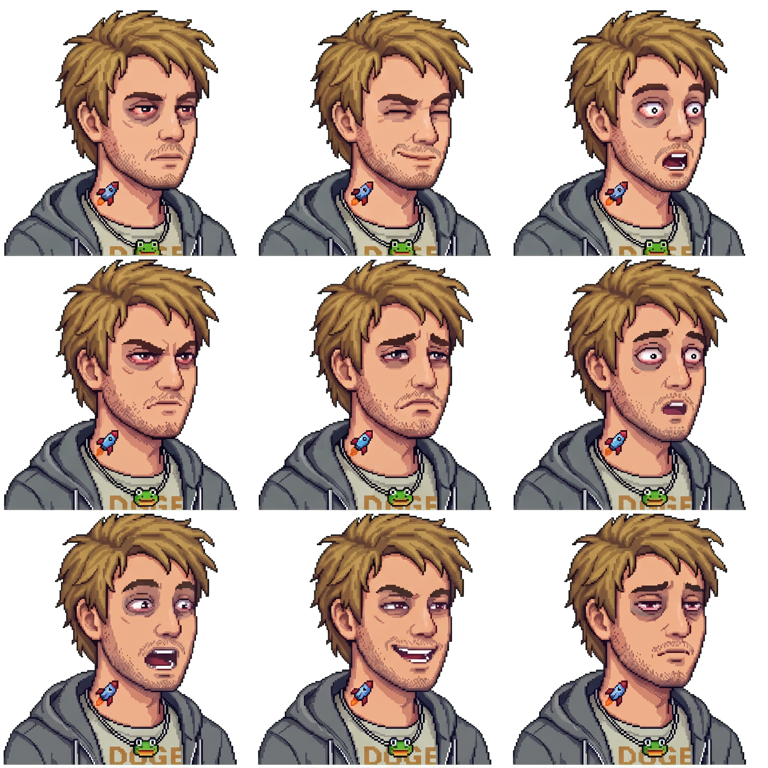
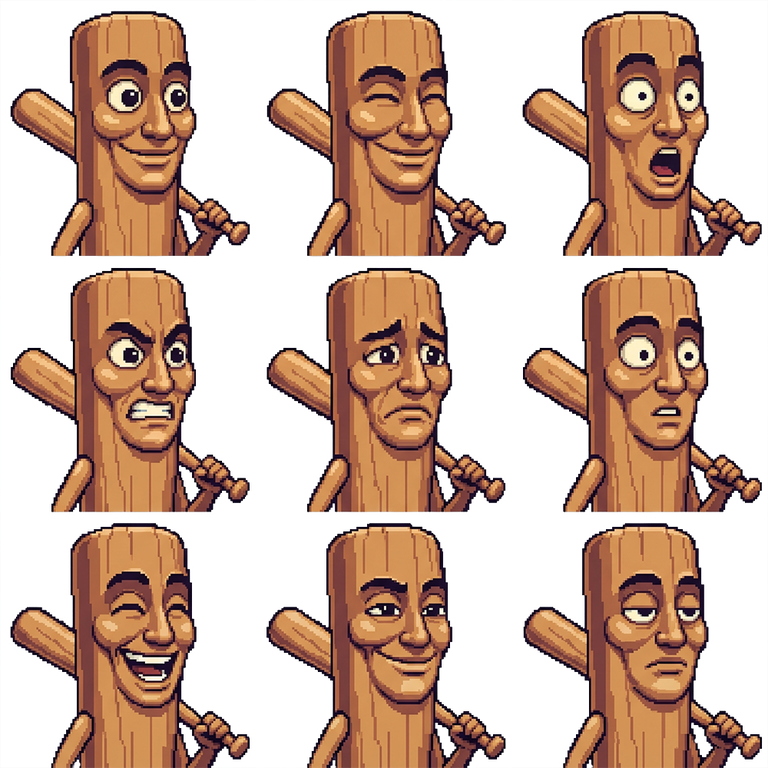
Add per-clue evidence images + Inspector/notebook art
- New src/assets/evidence/ illustrations, one per examine clue, resolved by
  basename via a new evidenceUrl() glob (mirrors the scene/portrait resolvers).
- Inspector (ExamineOverlay) shows the dedicated clue image in place of the
  zoomed room-crop when a hotspot carries one; document shots (badge, note,
  shredded) fit 'contain', atmospheric ones 'cover'.
- Sofa clue: establishing jacket-on-sofa shot with a READ THE NOTE / BACK
  toggle that zooms to the note close-up in the pocket.
- Case File notebook shows a thumbnail beside each logged clue
  (evidenceImageByClueId map).
- The Office: replaced the go-kart photo hotspot with a flavor-only "OLD PHOTO"
  easter egg (a young David and Yibo with Faker); no clueId, so case logic is
  untouched.
- Evidence images downscaled to <=1400px and recompressed to JPEG (35MB -> 2.6MB).
- Also includes new/updated character portraits (yibo, jay, sam) and a
  characters.js comment fix now that Yibo has a portrait.

Lint clean, 73/73 vitest pass, build OK, Playwright render-checked with 0
console errors: examine images, sofa zoom, Faker easter egg, notebook thumbnails.

diff --git a/src/mystery/data/rooms.js b/src/mystery/data/rooms.js
@@ -46,8 +46,8 @@ export const rooms = [
     sceneAssetByPeriod: { morning: 'office-day', dusk: 'office-dusk', night: 'office-night' },
     adjacents: ALL_ADJACENT.filter((r) => r !== 'office'),
     examineTargets: [
-      { id: 'of-desk', label: 'DAVID’S SPOT', x: 0.50, y: 0.58, flavor: 'Something is wedged half under David’s spot at the long team desk: a laptop with a sticker from a Singapore conference. Yibo’s. Still warm. The screen wakes to a spreadsheet of numbers that don’t match the ones David’s been showing investors.', clueId: 'retrieved-proof' },
-      { id: 'of-photo', label: 'FRAMED PHOTO', x: 0.24, y: 0.72, flavor: 'Two founders at a go-kart track, arms slung over shoulders, a trophy between them. Years ago, when it was still theirs together. Yibo’s face has been turned to the wall.' },
+      { id: 'of-desk', label: 'DAVID’S SPOT', x: 0.50, y: 0.58, flavor: 'Something is wedged half under David’s spot at the long team desk: a laptop with a sticker from a Singapore conference. Yibo’s. Still warm. The screen wakes to a spreadsheet of numbers that don’t match the ones David’s been showing investors.', clueId: 'retrieved-proof', image: 'retrieved-proof' },
+      { id: 'of-faker', label: 'OLD PHOTO', x: 0.80, y: 0.42, flavor: 'An old framed photo, the only thing on this floor older than the company. A much younger David and Yibo, grinning like idiots, crammed either side of Faker at some tournament in Seoul a lifetime ago. Two kids who met their hero and went home swearing they’d build something of their own. They did. Look how it turned out.', image: 'faker-photo' },
     ],
     schematic: { x: 0.68, y: 0.08, w: 0.28, h: 0.38 },
   },
@@ -58,8 +58,8 @@ export const rooms = [
     sceneAssetByPeriod: { morning: 'pantry-day', dusk: 'pantry-dusk', night: 'pantry-night' },
     adjacents: ALL_ADJACENT.filter((r) => r !== 'pantry'),
     examineTargets: [
-      { id: 'pn-body', label: 'THE BODY', x: 0.30, y: 0.66, flavor: 'Yibo on the pantry floor by the counter, where two glasses still sit. The skin says hours. The gash above his temple lines up with the hard counter corner, almost too well. His laptop and his phone, the things glued to his hands, are gone. Good whiskey on his breath. He didn’t drink alone, and nobody tidies up after a man who just slips.', clueId: 'the-body' },
-      { id: 'pn-glasses', label: 'TWO GLASSES', x: 0.58, y: 0.52, flavor: 'Two whiskey glasses by the sink, set down around two, poured from Yibo’s airport-gift bottle that nobody can find now. One wears Yibo’s prints. The other has been wiped down to nothing, the only clean thing in this room. This is where the good night quietly ended.', clueId: 'two-glasses' },
+      { id: 'pn-body', label: 'THE BODY', x: 0.30, y: 0.66, flavor: 'Yibo on the pantry floor by the counter, where two glasses still sit. The skin says hours. The gash above his temple lines up with the hard counter corner, almost too well. His laptop and his phone, the things glued to his hands, are gone. Good whiskey on his breath. He didn’t drink alone, and nobody tidies up after a man who just slips.', clueId: 'the-body', image: 'the-body' },
+      { id: 'pn-glasses', label: 'TWO GLASSES', x: 0.58, y: 0.52, flavor: 'Two whiskey glasses by the sink, set down around two, poured from Yibo’s airport-gift bottle that nobody can find now. One wears Yibo’s prints. The other has been wiped down to nothing, the only clean thing in this room. This is where the good night quietly ended.', clueId: 'two-glasses', image: 'two-glasses' },
       { id: 'pn-sink', label: 'THE SINK', x: 0.80, y: 0.40, flavor: 'Still wet. A dish towel folded too neatly for two in the morning. Somebody tidied in a hurry and called it calm.' },
     ],
     schematic: { x: 0.36, y: 0.08, w: 0.28, h: 0.38 },
@@ -71,7 +71,7 @@ export const rooms = [
     sceneAssetByPeriod: { morning: 'sofa-day', dusk: 'sofa-dusk', night: 'sofa-night' },
     adjacents: ALL_ADJACENT.filter((r) => r !== 'sofa'),
     examineTargets: [
-      { id: 'sf-jacket', label: 'PONCHO’S JACKET', x: 0.46, y: 0.62, flavor: 'Poncho’s jacket, slung over the lounge arm since the watch party. In the pocket, a folded printout. A thread where he swears Yibo will rewrite his engine “over my dead body.” Damning, until you read the line at the bottom in his own hand: “we’re good. beers on me.”', clueId: 'owed-note' },
+      { id: 'sf-jacket', label: 'PONCHO’S JACKET', x: 0.46, y: 0.62, flavor: 'Poncho’s jacket, slung over the lounge arm since the watch party. In the pocket, a folded printout. A thread where he swears Yibo will rewrite his engine “over my dead body.” Damning, until you read the line at the bottom in his own hand: “we’re good. beers on me.”', clueId: 'owed-note', image: 'owed-note', zoomImage: 'owed-note-note', zoomFit: 'contain', zoomLabel: 'READ THE NOTE' },
     ],
     schematic: { x: 0.04, y: 0.08, w: 0.28, h: 0.38 },
   },
@@ -82,7 +82,7 @@ export const rooms = [
     sceneAssetByPeriod: { morning: 'printer', dusk: 'printer', night: 'printer' },
     adjacents: ALL_ADJACENT.filter((r) => r !== 'printer'),
     examineTargets: [
-      { id: 'pr-shredder', label: 'THE SHREDDER', x: 0.50, y: 0.62, flavor: 'Fresh confetti in the bin. Patient fingers reassemble it: the real growth curve beside the deck’s prettier lie, and a line in Yibo’s hand, “the round is a lie. I’m pulling the engine.” Someone disagreed, hard, and fed the proof to the blades.', clueId: 'shredded-letter' },
+      { id: 'pr-shredder', label: 'THE SHREDDER', x: 0.50, y: 0.62, flavor: 'Fresh confetti in the bin. Patient fingers reassemble it: the real growth curve beside the deck’s prettier lie, and a line in Yibo’s hand, “the round is a lie. I’m pulling the engine.” Someone disagreed, hard, and fed the proof to the blades.', clueId: 'shredded-letter', image: 'shredded-letter', imageFit: 'contain' },
     ],
     schematic: { x: 0.36, y: 0.54, w: 0.28, h: 0.38 },
   },
@@ -93,7 +93,7 @@ export const rooms = [
     sceneAssetByPeriod: { morning: 'elevator', dusk: 'elevator', night: 'elevator' },
     adjacents: ALL_ADJACENT.filter((r) => r !== 'elevator'),
     examineTargets: [
-      { id: 'el-badge', label: 'BADGE LOG', x: 0.50, y: 0.50, flavor: 'The reader’s memory: guest badge V1 (Yibo) up at 21:40, never down. So Yibo never left the floor. And a hole where D1, David’s badge, should be. Deleted, with a quiet re-entry stamp at 01:50. He told everyone he headed home at eleven. Only admin and David can rewrite this log.', clueId: 'scrubbed-badge' },
+      { id: 'el-badge', label: 'BADGE LOG', x: 0.50, y: 0.50, flavor: 'The reader’s memory: guest badge V1 (Yibo) up at 21:40, never down. So Yibo never left the floor. And a hole where D1, David’s badge, should be. Deleted, with a quiet re-entry stamp at 01:50. He told everyone he headed home at eleven. Only admin and David can rewrite this log.', clueId: 'scrubbed-badge', image: 'scrubbed-badge', imageFit: 'contain' },
     ],
     schematic: { x: 0.04, y: 0.54, w: 0.28, h: 0.38 },
   },
@@ -104,4 +104,14 @@ export const roomById = Object.fromEntries(rooms.map((r) => [r.id, r]));
 /** All examine targets flattened, keyed by target id → { ...target, roomId }. */
 export const examineTargetById = Object.fromEntries(
   rooms.flatMap((r) => (r.examineTargets ?? []).map((t) => [t.id, { ...t, roomId: r.id }])),
+);
+
+/** clueId → evidence image key, for clue-granting hotspots that carry art.
+ *  Lets the notebook show a thumbnail next to each logged clue. */
+export const evidenceImageByClueId = Object.fromEntries(
+  rooms.flatMap((r) =>
+    (r.examineTargets ?? [])
+      .filter((t) => t.clueId && t.image)
+      .map((t) => [t.clueId, t.image]),
+  ),
 );

diff --git a/src/mystery/overlays/ExamineOverlay.jsx b/src/mystery/overlays/ExamineOverlay.jsx
@@ -11,7 +11,7 @@ import { useDialogFocus } from './useDialogFocus';
 import { examineAtom, clockMinutesAtom } from '@/mystery/state/mystery';
 import { examineTargetById, roomById } from '@/mystery/data/rooms';
 import { clueById } from '@/mystery/data/clues';
-import { sceneUrl } from '@/mystery/data/scenes';
+import { sceneUrl, evidenceUrl } from '@/mystery/data/scenes';
 import { periodFor } from '@/mystery/engine/clock';
 
 import styles from './ExamineOverlay.module.css';
@@ -101,6 +101,9 @@ export default function ExamineOverlay() {
   // Evidence callout reveals a beat after the panel slams in, for weight.
   const [showEvidence, setShowEvidence] = useState(false);
   const [flashOn, setFlashOn] = useState(false);
+  // Sofa note: the card shows the jacket on the sofa; this toggles to the
+  // close-up of the note in the pocket.
+  const [zoomed, setZoomed] = useState(false);
 
   // ESC to close.
   useEffect(() => {
@@ -118,6 +121,7 @@ export default function ExamineOverlay() {
   useEffect(() => {
     setShowEvidence(false);
     setFlashOn(false);
+    setZoomed(false);
     if (!clue) return undefined;
     const reduced = prefersReducedMotion();
     const delay = reduced ? 0 : 420;
@@ -138,6 +142,17 @@ export default function ExamineOverlay() {
   const period = periodFor(clockMinutes);
   const sceneKey = room?.sceneAssetByPeriod?.[period] ?? null;
   const art = sceneKey ? sceneUrl(sceneKey) : null;
+
+  // Dedicated clue art, if this hotspot carries one (otherwise we fall back to a
+  // zoomed crop of the room). The sofa note has a second close-up reachable via
+  // the zoom toggle.
+  const baseImg = evidenceUrl(target.image);
+  const zoomImg = evidenceUrl(target.zoomImage);
+  const showZoom = zoomed && Boolean(zoomImg);
+  const evidenceImg = showZoom ? zoomImg : baseImg;
+  const evidenceFit = showZoom
+    ? target.zoomFit ?? 'contain'
+    : target.imageFit ?? 'cover';
 
   // Detail crop framing derived from the hotspot position, so the inspected
   // crop centers on the thing examined. Scale up for a "zoomed-in" detail feel.
@@ -177,7 +192,15 @@ export default function ExamineOverlay() {
             {/* LEFT / TOP — framed, zoomed crop of the scene art. */}
             <div className={styles.viewport} data-period={period}>
               <div className={styles.crop}>
-                {art ? (
+                {evidenceImg ? (
+                  <img
+                    src={evidenceImg}
+                    className={styles.evidenceImg}
+                    style={{ objectFit: evidenceFit }}
+                    alt={`${target.label}${showZoom ? ' detail' : ''}`}
+                    draggable="false"
+                  />
+                ) : art ? (
                   <div
                     className={styles.cropImg}
                     style={{
@@ -186,26 +209,39 @@ export default function ExamineOverlay() {
                       backgroundPosition: `${fx * 100}% ${fy * 100}%`,
                     }}
                     role="img"
-                    aria-label={`${room?.label ?? 'Scene'} — detail`}
+                    aria-label={`${room?.label ?? 'Scene'} detail`}
                   />
                 ) : (
                   <div className={styles.cropMissing} aria-hidden="true">
                     NO SIGNAL
                   </div>
                 )}
-                {/* Reticle pinned on the inspected detail. */}
-                <span className={styles.reticle} aria-hidden="true">
-                  <span className={styles.rTL} />
-                  <span className={styles.rTR} />
-                  <span className={styles.rBL} />
-                  <span className={styles.rBR} />
-                </span>
+                {/* Reticle pins on a room-crop detail; hidden over full clue art. */}
+                {!evidenceImg && (
+                  <span className={styles.reticle} aria-hidden="true">
+                    <span className={styles.rTL} />
+                    <span className={styles.rTR} />
+                    <span className={styles.rBL} />
+                    <span className={styles.rBR} />
+                  </span>
+                )}
                 <span className={styles.scan} aria-hidden="true" />
               </div>
               <div className={styles.viewportMeta}>
-                <span className={styles.metaRoom}>{room?.label ?? '—'}</span>
-                <span className={styles.metaDot}>·</span>
-                <span className={styles.metaPeriod}>{period.toUpperCase()}</span>
+                <span className={styles.metaInfo}>
+                  <span className={styles.metaRoom}>{room?.label ?? '—'}</span>
+                  <span className={styles.metaDot}>·</span>
+                  <span className={styles.metaPeriod}>{period.toUpperCase()}</span>
+                </span>
+                {zoomImg && (
+                  <button
+                    type="button"
+                    className={styles.zoomBtn}
+                    onClick={() => setZoomed((z) => !z)}
+                  >
+                    {showZoom ? '◂ BACK' : `${target.zoomLabel ?? 'ZOOM IN'} ▸`}
+                  </button>
+                )}
               </div>
             </div>
 

diff --git a/src/mystery/overlays/NotebookOverlay.jsx b/src/mystery/overlays/NotebookOverlay.jsx
@@ -6,7 +6,8 @@ import { useGameActions } from '@/mystery/state/actions';
 import { useDialogFocus } from './useDialogFocus';
 import { collectedCluesAtom } from '@/mystery/state/mystery';
 import { clueById } from '@/mystery/data/clues';
-import { roomById } from '@/mystery/data/rooms';
+import { roomById, evidenceImageByClueId } from '@/mystery/data/rooms';
+import { evidenceUrl } from '@/mystery/data/scenes';
 import { formatClock } from '@/mystery/engine/clock';
 import styles from './NotebookOverlay.module.css';
 
@@ -86,31 +87,42 @@ export default function NotebookOverlay() {
                 {entries.map((entry, idx) => {
                   const { clue } = entry;
                   const source = roomById[clue.source]?.label ?? clue.source;
+                  const thumb = evidenceUrl(evidenceImageByClueId[clue.id]);
                   const time =
                     typeof entry.atMinute === 'number'
                       ? formatClock(entry.atMinute)
                       : null;
                   return (
                     <li key={entry.id} className={styles.entry}>
-                      <div className={styles.entryHead}>
-                        <span className={styles.entryId}>
-                          {String(idx + 1).padStart(2, '0')}
-                        </span>
-                        <span className={styles.entryLabel}>{clue.label}</span>
-                      </div>
-                      <p className={styles.entryDesc}>{clue.description}</p>
-                      <div className={styles.entryMeta}>
-                        <span className={styles.metaSource}>
-                          {(source ?? '—').toUpperCase()}
-                        </span>
-                        {time && (
-                          <>
-                            <span className={styles.metaSep} aria-hidden="true">
-                              ·
-                            </span>
-                            <span className={styles.metaTime}>{time}</span>
-                          </>
-                        )}
+                      {thumb && (
+                        <img
+                          className={styles.entryThumb}
+                          src={thumb}
+                          alt=""
+                          draggable="false"
+                        />
+                      )}
+                      <div className={styles.entryMain}>
+                        <div className={styles.entryHead}>
+                          <span className={styles.entryId}>
+                            {String(idx + 1).padStart(2, '0')}
+                          </span>
+                          <span className={styles.entryLabel}>{clue.label}</span>
+                        </div>
+                        <p className={styles.entryDesc}>{clue.description}</p>
+                        <div className={styles.entryMeta}>
+                          <span className={styles.metaSource}>
+                            {(source ?? '—').toUpperCase()}
+                          </span>
+                          {time && (
+                            <>
+                              <span className={styles.metaSep} aria-hidden="true">
+                                ·
+                              </span>
+                              <span className={styles.metaTime}>{time}</span>
+                            </>
+                          )}
+                        </div>
                       </div>
                     </li>
                   );

diff --git a/src/mystery/overlays/ExamineOverlay.module.css b/src/mystery/overlays/ExamineOverlay.module.css
@@ -170,6 +170,7 @@
 .viewportMeta {
   display: flex;
   align-items: center;
+  justify-content: space-between;
   gap: var(--space-2);
   margin-top: var(--space-3);
   font-family: var(--font-mono);
@@ -179,9 +180,53 @@
   text-transform: uppercase;
 }
 
+.metaInfo {
+  display: flex;
+  align-items: center;
+  gap: var(--space-2);
+  min-width: 0;
+}
+
 .metaRoom { color: var(--color-text); }
 .metaDot { color: var(--color-text-muted); }
 .metaPeriod { color: var(--color-accent); }
+
+/* Full clue illustration, shown in place of the zoomed room-crop. object-fit
+ * is set inline per clue ('cover' for atmosphere, 'contain' for readable docs). */
+.evidenceImg {
+  position: absolute;
+  inset: 0;
+  width: 100%;
+  height: 100%;
+  object-fit: cover;
+  background: #000;
+  filter: contrast(1.03) saturate(1.02);
+}
+
+/* Zoom toggle (e.g. READ THE NOTE) on the right of the viewport meta row. */
+.zoomBtn {
+  flex-shrink: 0;
+  padding: var(--space-1) var(--space-3);
+  border: 1px solid var(--color-accent);
+  background: transparent;
+  font-family: var(--font-mono);
+  font-size: var(--font-xs);
+  font-weight: 700;
+  letter-spacing: 0.16em;
+  text-transform: uppercase;
+  color: var(--color-accent);
+  cursor: pointer;
+  transition:
+    color var(--dur-fast) var(--ease-quart),
+    background var(--dur-fast) var(--ease-quart);
+}
+
+.zoomBtn:hover,
+.zoomBtn:focus-visible {
+  color: var(--color-canvas);
+  background: var(--color-accent);
+  outline: none;
+}
 
 /* ---------------- RIGHT / BOTTOM — readout ---------------- */
 

diff --git a/src/mystery/data/scenes.js b/src/mystery/data/scenes.js
@@ -23,6 +23,14 @@ const portraitModules = import.meta.glob('../../assets/portraits/*.png', {
   import: 'default',
 });
 
+// Evidence art — one dedicated illustration per clue hotspot (plus a couple of
+// flavor/zoom extras). Keyed by basename, e.g. 'two-glasses', 'owed-note-note'.
+const evidenceModules = import.meta.glob('../../assets/evidence/*.{png,jpg,jpeg,webp}', {
+  eager: true,
+  query: '?url',
+  import: 'default',
+});
+
 /** Build a { basename: url } lookup from a glob result keyed by full path. */
 function indexByBasename(modules) {
   const out = {};
@@ -35,6 +43,7 @@ function indexByBasename(modules) {
 
 export const sceneUrls = indexByBasename(sceneModules);
 export const portraitUrls = indexByBasename(portraitModules);
+export const evidenceUrls = indexByBasename(evidenceModules);
 
 /**
  * Resolve a scene asset key to its bundled URL.
@@ -52,4 +61,13 @@ export function sceneUrl(key) {
  */
 export function portraitUrl(id) {
   return portraitUrls[id] ?? null;
+}
+
+/**
+ * Resolve an evidence image key to its bundled URL.
+ * @param {string|null|undefined} key e.g. 'two-glasses'
+ * @returns {string|null}
+ */
+export function evidenceUrl(key) {
+  return key ? (evidenceUrls[key] ?? null) : null;
 }

diff --git a/src/mystery/overlays/NotebookOverlay.module.css b/src/mystery/overlays/NotebookOverlay.module.css
@@ -114,14 +114,33 @@
 
 .entry {
   display: flex;
-  flex-direction: column;
-  gap: var(--space-2);
+  flex-direction: row;
+  align-items: flex-start;
+  gap: var(--space-4);
   padding: var(--space-4) 0;
   border-bottom: 1px solid var(--color-divider, var(--color-border));
 }
 
 .entry:first-child {
   border-top: 1px solid var(--color-divider, var(--color-border));
+}
+
+/* Evidence thumbnail (left of the entry text), for clues that carry art. */
+.entryThumb {
+  flex: 0 0 auto;
+  width: 56px;
+  height: 56px;
+  object-fit: cover;
+  border: 1px solid var(--color-border);
+  background: #000;
+}
+
+.entryMain {
+  flex: 1 1 auto;
+  min-width: 0;
+  display: flex;
+  flex-direction: column;
+  gap: var(--space-2);
 }
 
 .entryHead {

diff --git a/src/mystery/data/characters.js b/src/mystery/data/characters.js
@@ -4,9 +4,8 @@
  * Pure data. Portrait resolution lives in data/scenes.js (portraitUrl(id)).
  *
  * Yibo is the victim (dead: true, no schedule) — the visiting cofounder, present
- * in the roster as the body, excluded from the suspect board. He has no portrait
- * asset (the roster renders the deceased row without one). Everyone else —
- * including David, the killer — is a living, accusable suspect.
+ * in the roster as the body (DECEASED), excluded from the suspect board. Everyone
+ * else — including David, the killer — is a living, accusable suspect.
  *
  * schedule: ordered list of { at, room } breakpoints (at = elapsed minutes
  * since the shift clock's zero). A character is in the room of the latest
